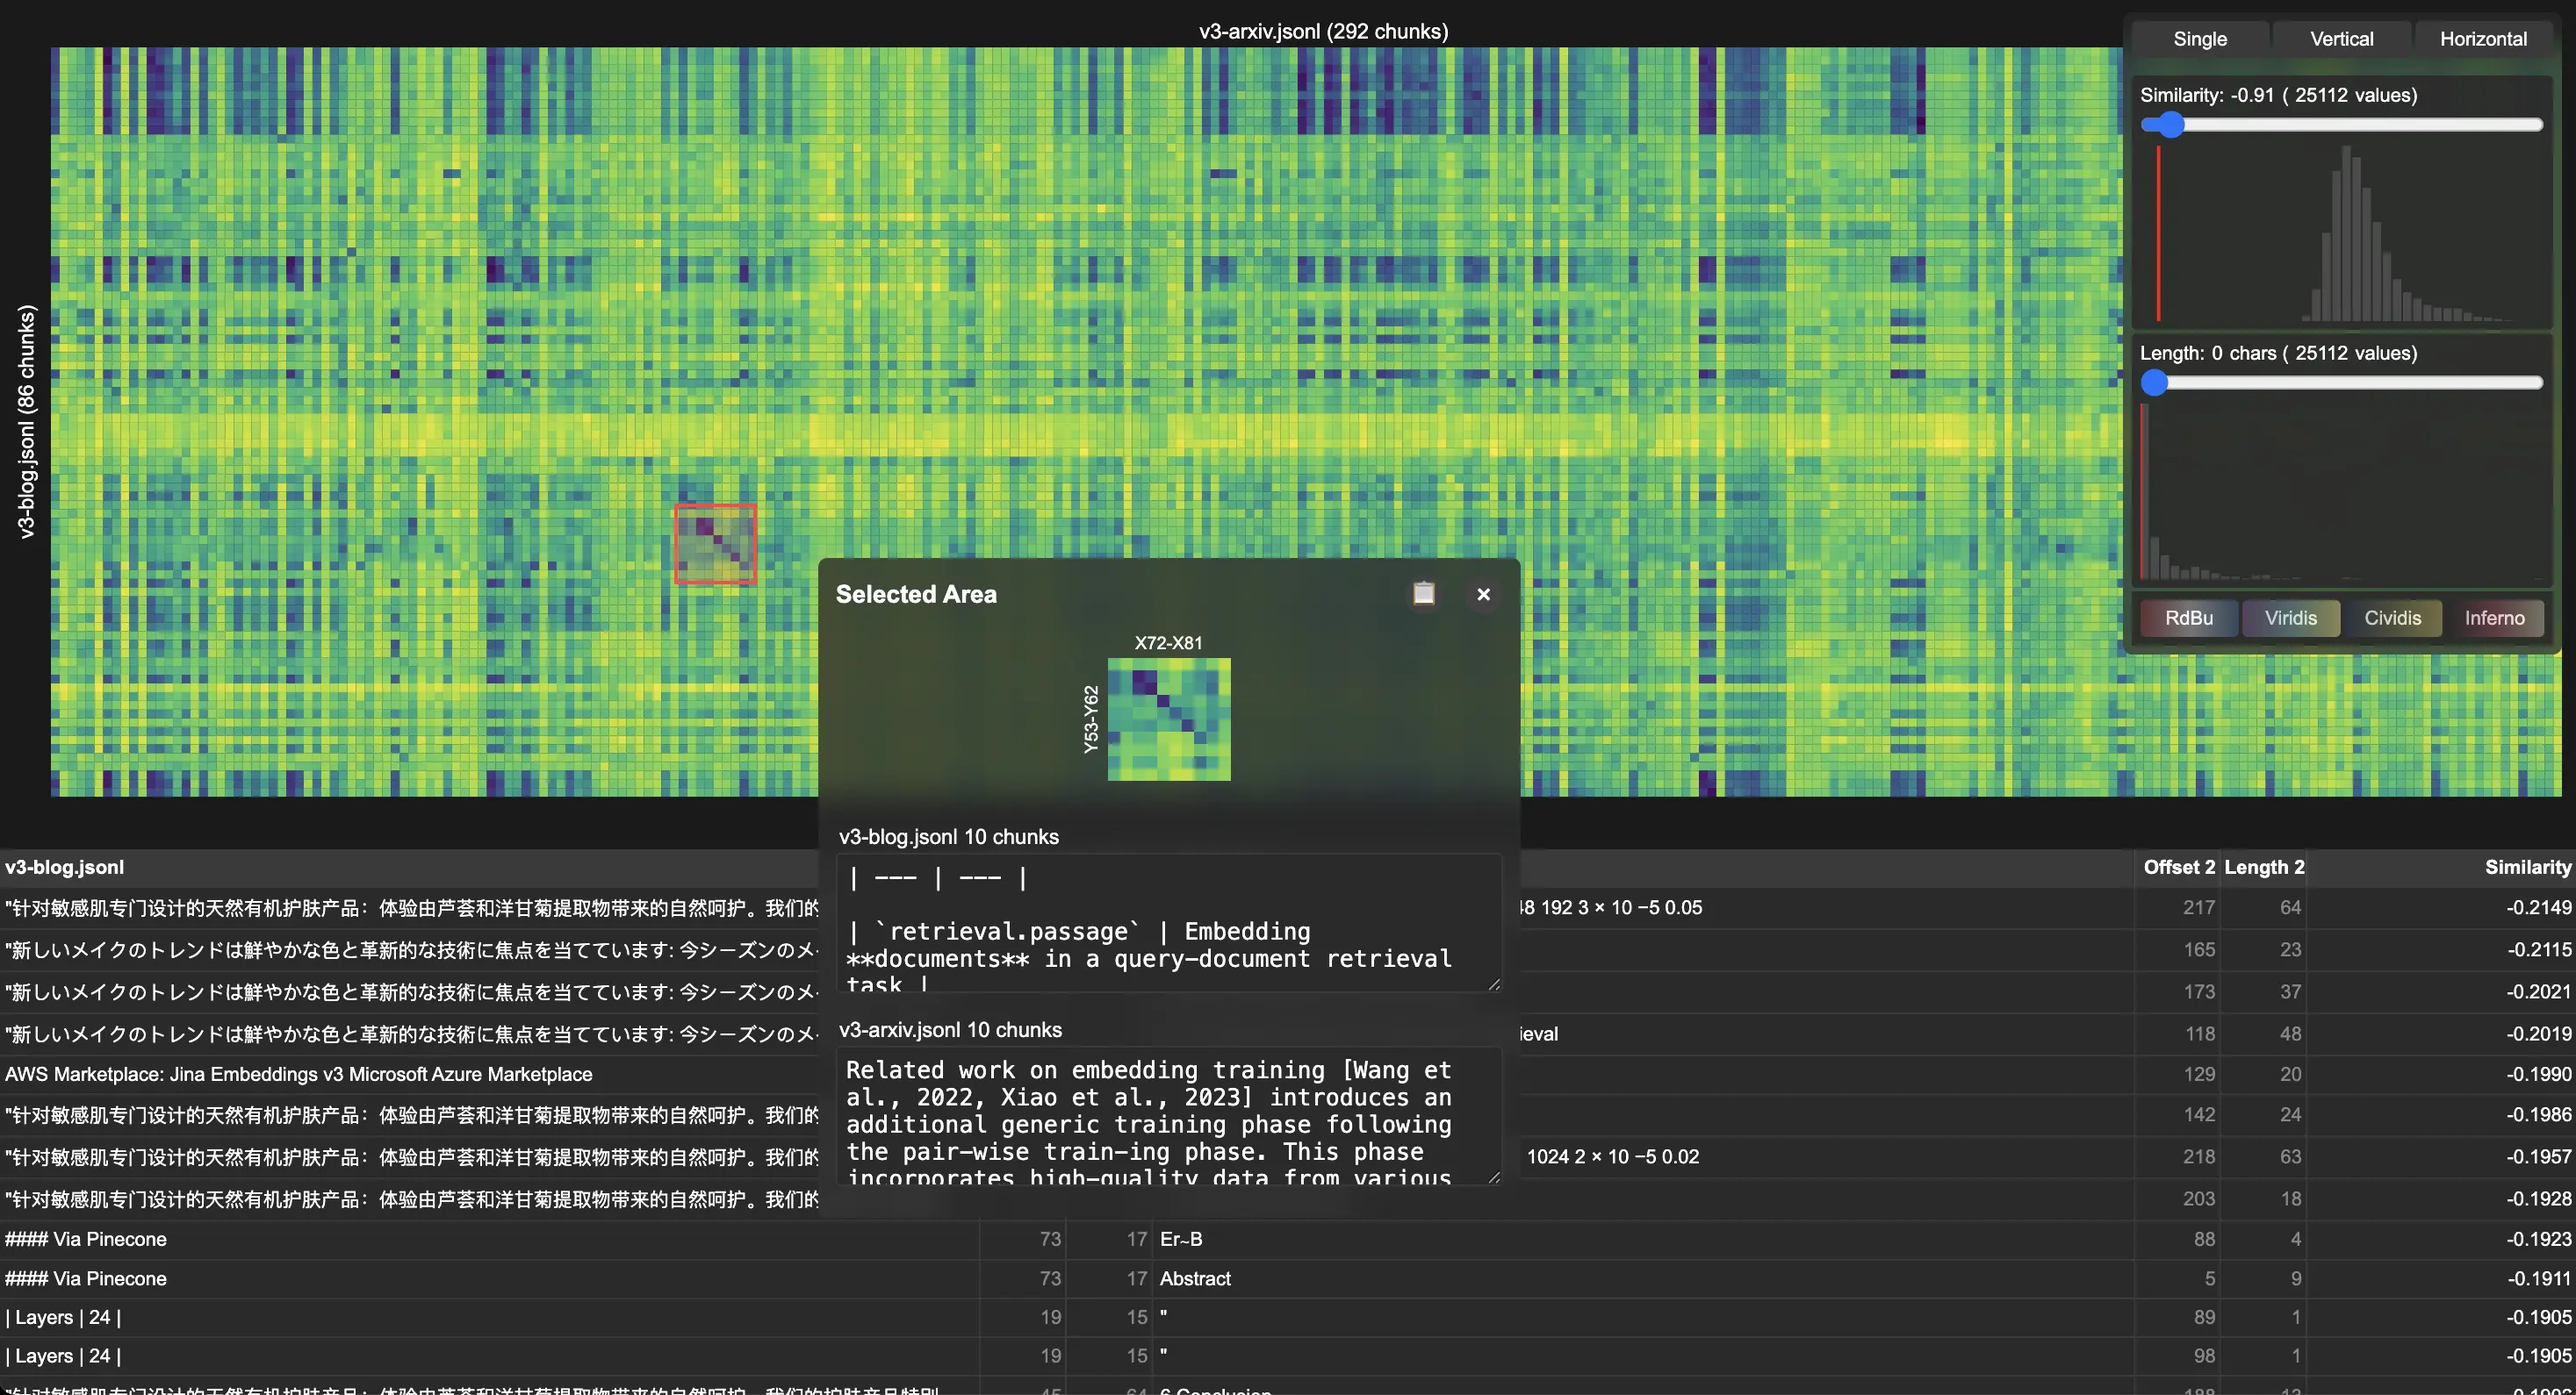
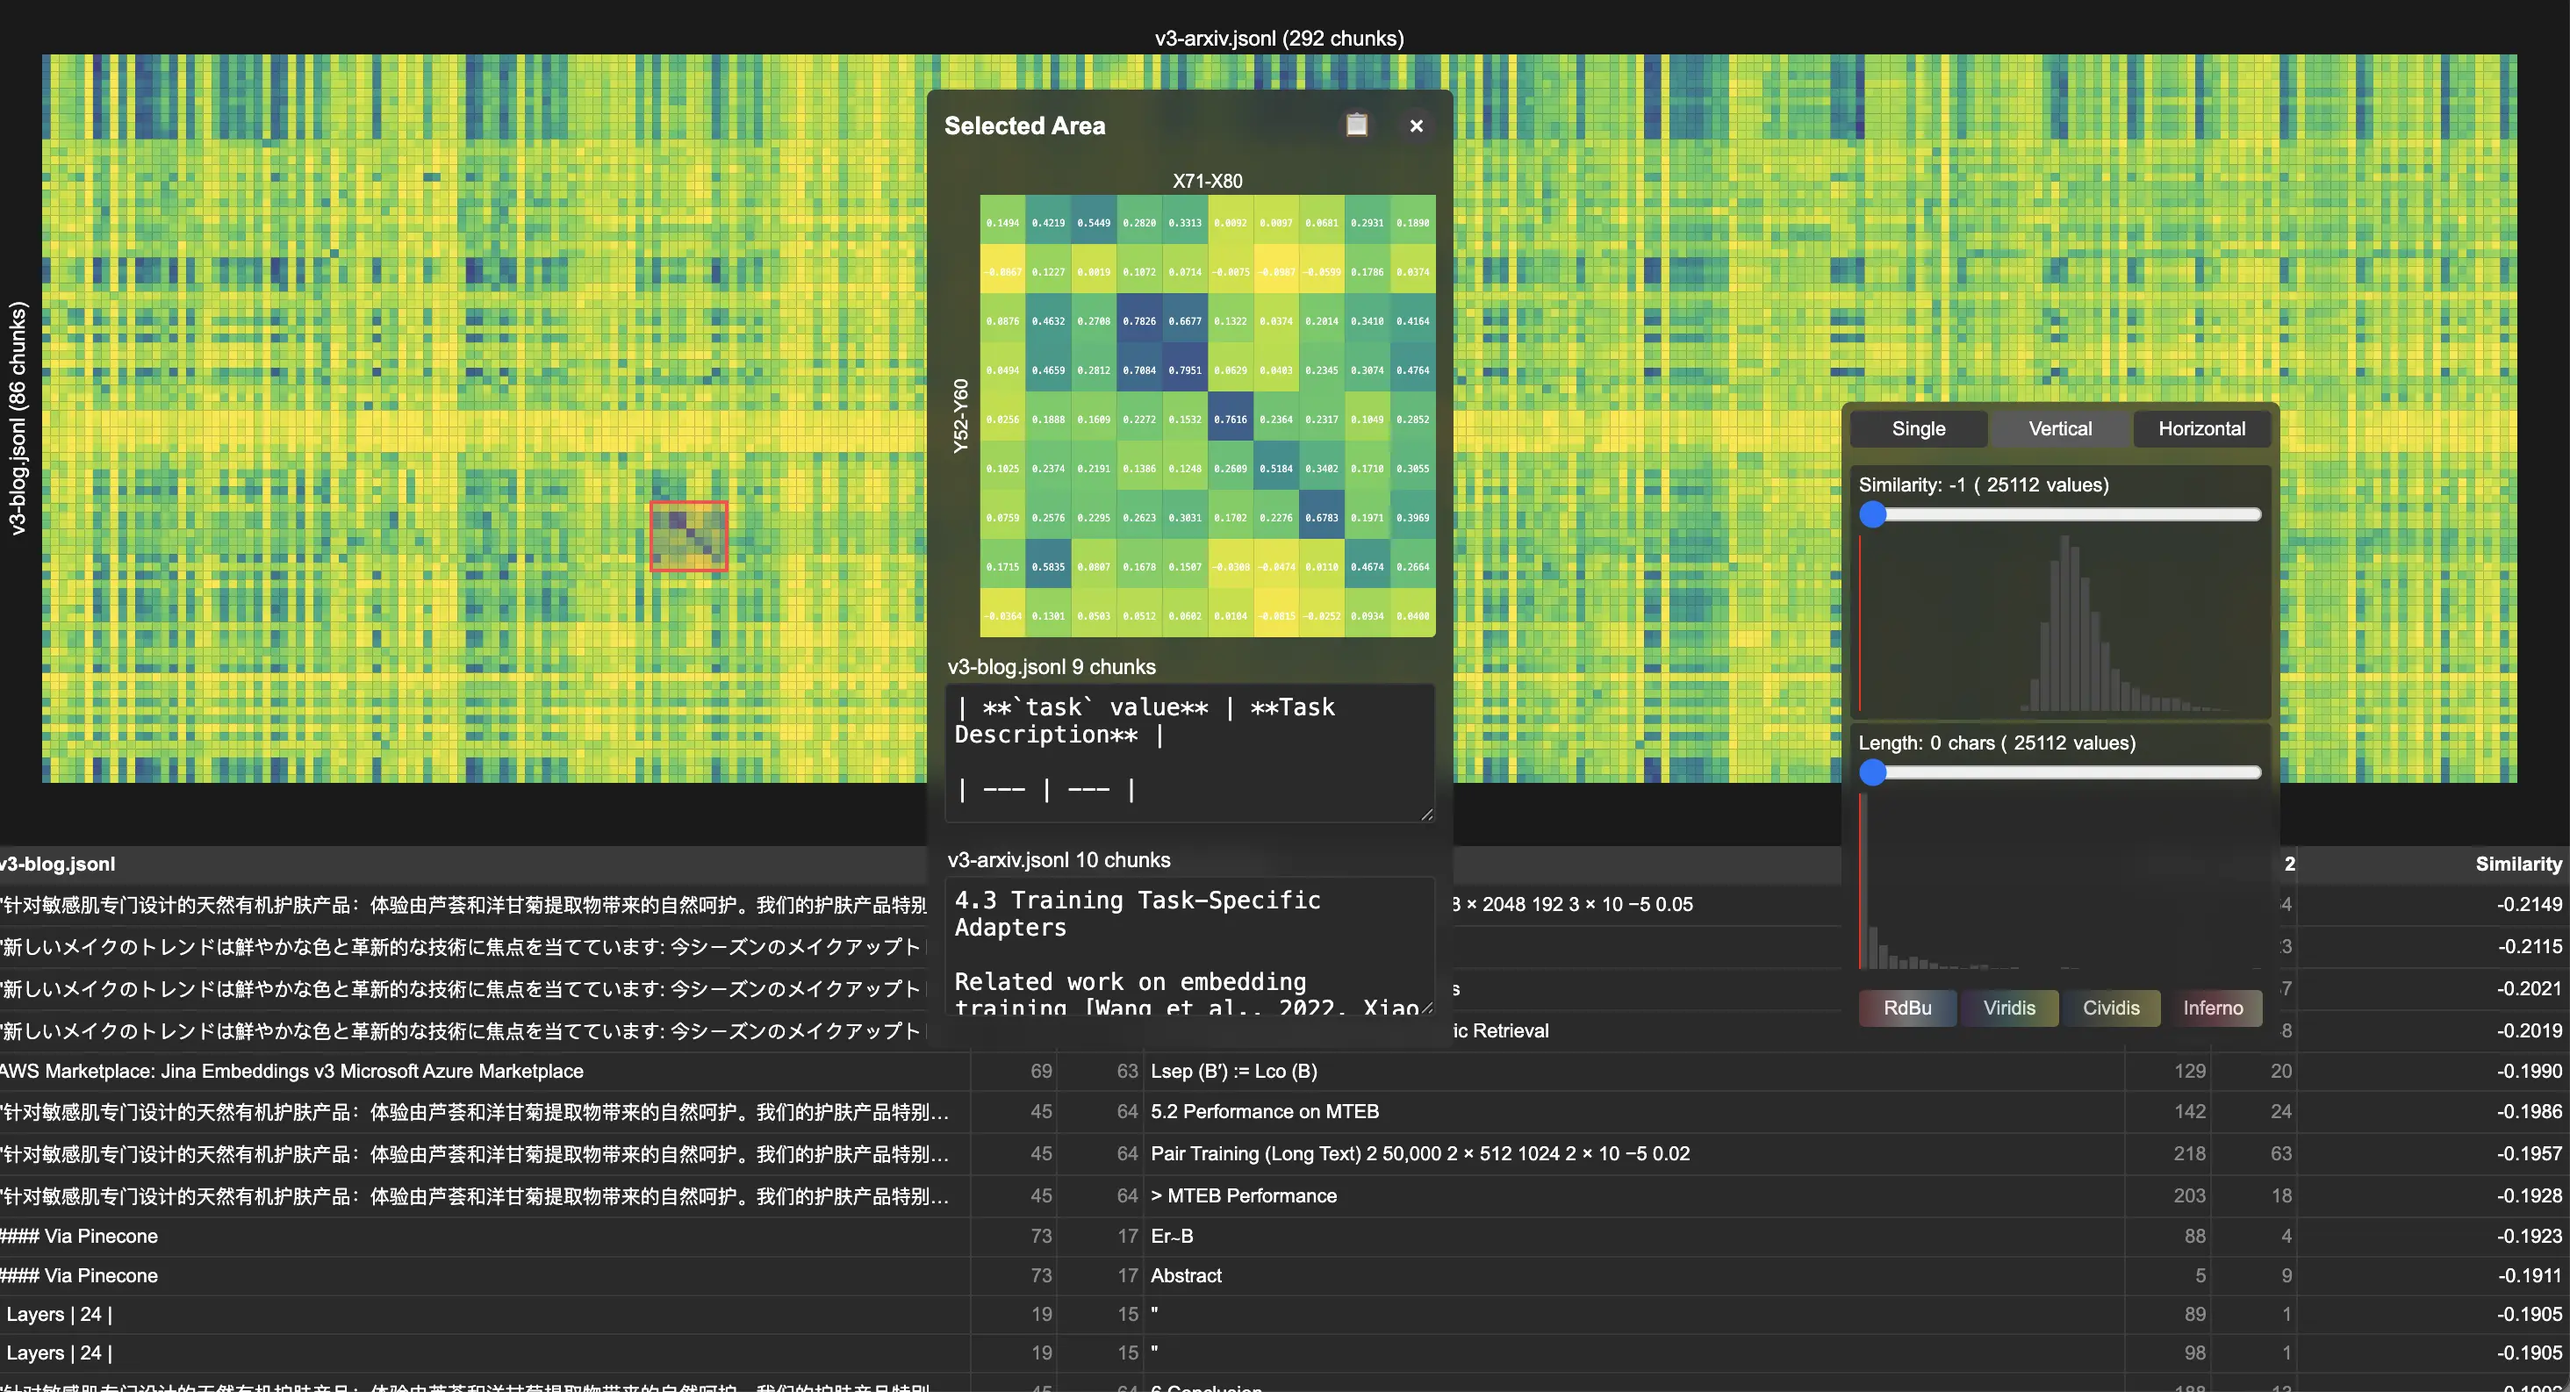
Update correlation template styles and replace example image

diff --git a/src/templates/correlation_d3.html b/src/templates/correlation_d3.html
@@ -211,7 +211,7 @@
             border-radius: 5px;
             padding: 10px 10px 12px 10px;
             display: none;
-            width: 400px;
+            width: 300px;
             overflow-y: auto;
             cursor: move;
             backdrop-filter: blur(8px);
@@ -422,7 +422,7 @@
             color: white;
             font-size: 11px;
             min-height: 130px;
-            background-color: rgba(42, 42, 42, 0.7);
+            background-color: transparent;
             backdrop-filter: blur(8px);
             -webkit-backdrop-filter: blur(8px);
             padding: 5px;
@@ -462,6 +462,7 @@
             width: 100%;
             height: 100px;
             margin-top: 2px;
+            background: transparent;
         }
 
         button {
@@ -984,7 +985,8 @@
 
             const svg = container.append('svg')
                 .attr('width', width)
-                .attr('height', height);
+                .attr('height', height)
+                .style('background', 'none');
 
             const g = svg.append('g');
 
